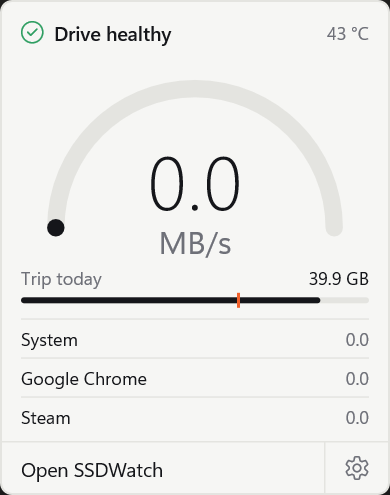
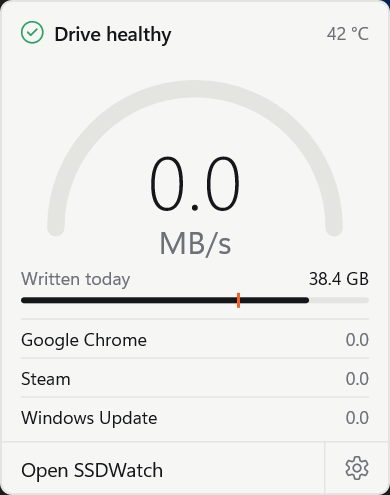
README and images: Written today instead of Trip today.

diff --git a/README.md b/README.md
@@ -1,4 +1,4 @@
-<p align="center">
+<p align="center">
   <img src="res/banner.png" alt="SSDWatch: see what your SSDs and your programs write, and know when to worry">
 </p>
 
@@ -26,7 +26,7 @@ I wanted one small program that answers the simple questions: how much did my SS
 <td><img src="res/readme/settings.png" alt="Settings: which alerts you get, which drives are watched, how it measures"></td>
 <td valign="top">
 <img src="res/readme/alert.png" alt="An alert: a program writing far more than usual"><br><br>
-<img src="res/readme/flyout.png" alt="The tray flyout: health, writing now and the trip of today" width="60%">
+<img src="res/readme/flyout.png" alt="The tray flyout: health, writing now and what was written today" width="60%">
 </td>
 </tr>
 </table>
@@ -35,7 +35,7 @@ I wanted one small program that answers the simple questions: how much did my SS
 
 - **Who wrote today.** Every program, with how much it wrote today, in the last 7 days or in 30 days, and a 30-day chart for each one.
 - **Real disk writes.** With administrator rights, SSDWatch counts what really reaches the drive, including what Windows writes later from its cache, and gives it to the program that wrote the file. Without them, it estimates from the programs' own counters.
-- **Odometer and trip.** The total the drive has received in its life, and what it received today, against your usual day (the median of the last 30 days).
+- **Odometer and written today.** The total the drive has received in its life, and what it received today, against your usual day (the median of the last 30 days).
 - **Health and wear.** For NVMe drives: percentage used, spare blocks, temperature, hours on and critical warnings, read from the drive itself.
 - **History.** One small file per day, kept 30, 90 or 365 days. Charts of 14, 30 or 90 days, the busiest day, and the programs of any day. Export to CSV.
 - **Alerts you choose:**
@@ -44,7 +44,7 @@ I wanted one small program that answers the simple questions: how much did my SS
   - a day that doubles your usual one.
   An alert can be closed, or a program quieted until tomorrow.
 - **Several SSDs.** Every NVMe and SATA SSD is found and can be watched or left out. Pick one drive or all of them in every view. Hard disks are left out.
-- **Tray.** It keeps watching from the tray. The icon turns orange during an alert; a click shows the health, what is being written now and the trip of today.
+- **Tray.** It keeps watching from the tray. The icon turns orange during an alert; a click shows the health, what is being written now and what was written today.
 - **Starts with Windows,** with administrator rights and without asking each time, through a scheduled task that you turn on once in Settings.
 - **Light and dark,** following Windows or chosen by you. Tips on every control, which you can turn off.
 
@@ -94,3 +94,4 @@ Read the full terms in [LICENSE.md](LICENSE.md) (English) or [LICENCIA.md](LICEN
 If you like SSDWatch and want to support its development, you can buy me a coffee.
 
 <a href="https://ko-fi.com/edukode"><img src="res/support-kofi.svg" alt="Buy me a coffee on Ko-fi" width="220"></a>
+
